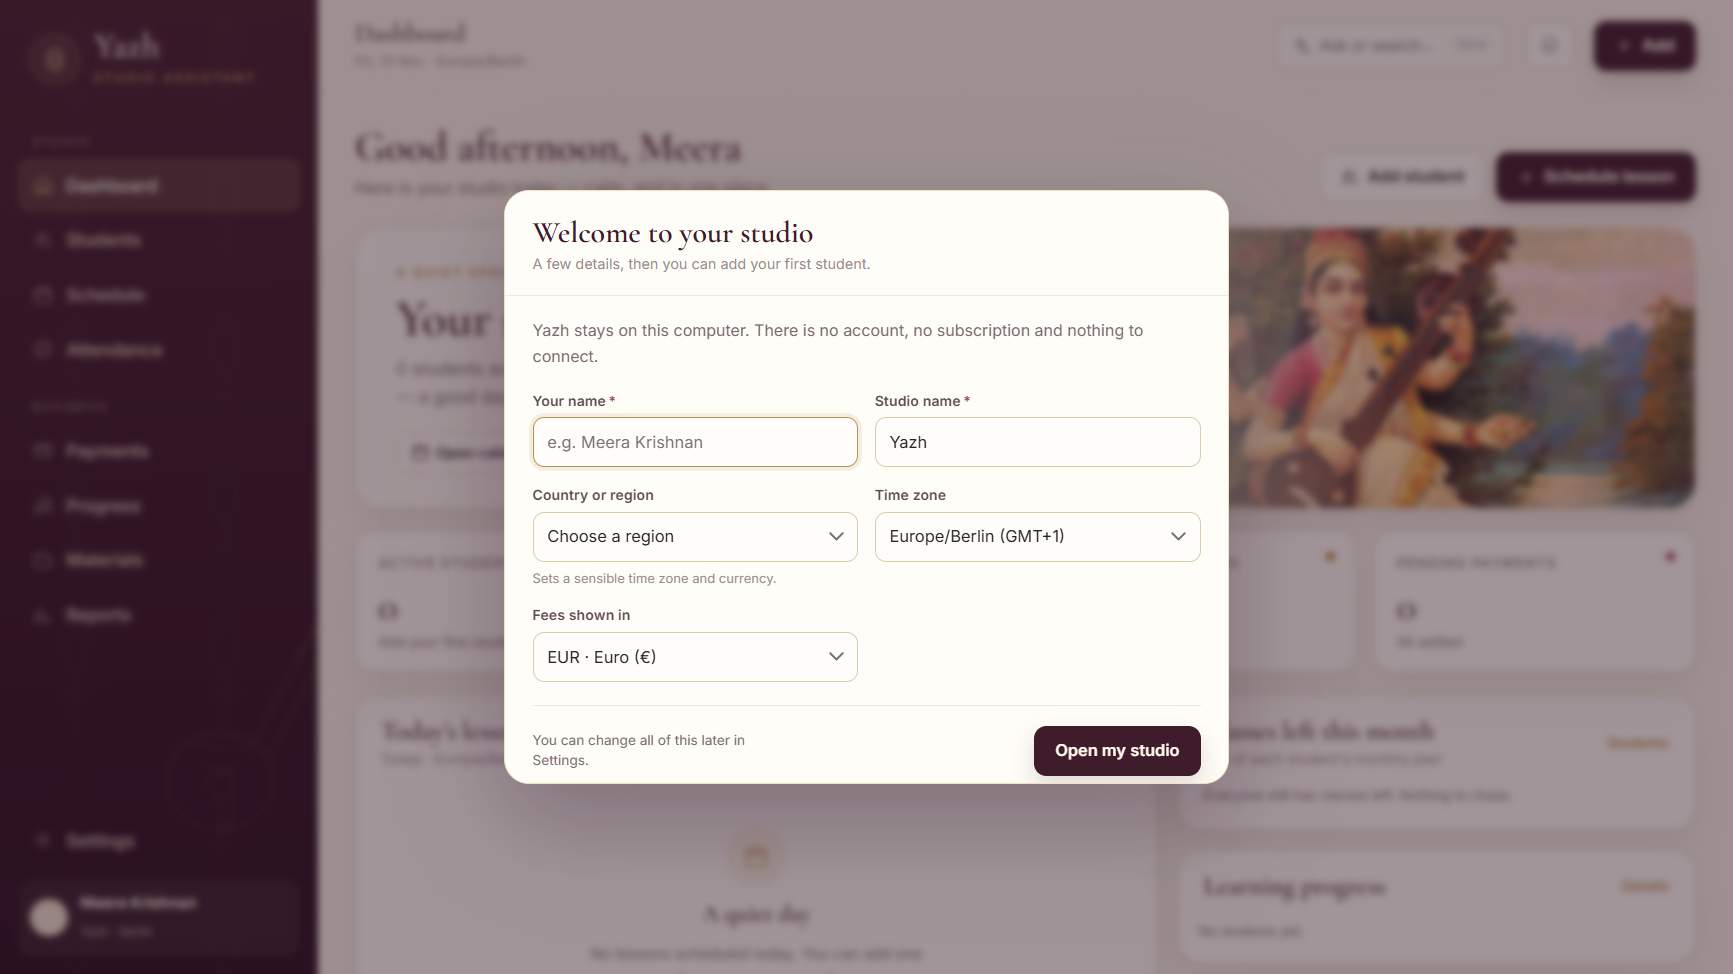
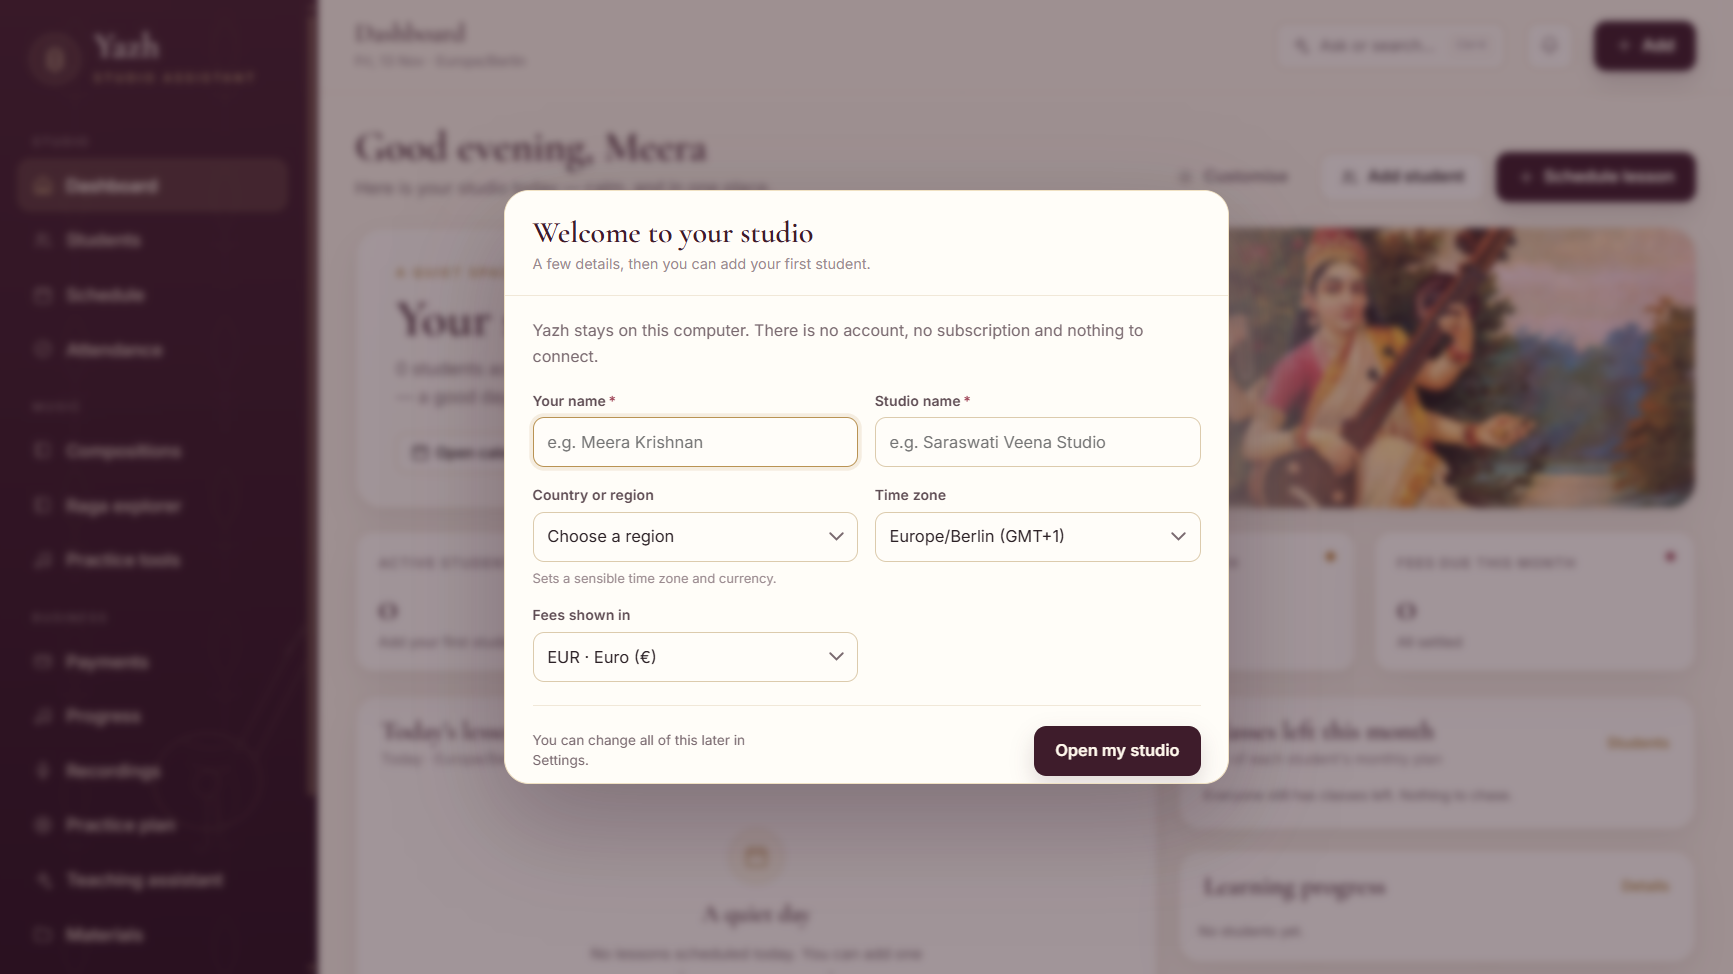
docs: first-run setup screenshot for 1.17

diff --git a/README.md b/README.md
@@ -12,7 +12,7 @@ subscription, no telemetry.
 
 | File | What it does |
 |---|---|
-| **`Yazh-1.16.0-portable.exe`** | Windows — available now |
+| **`Yazh-1.17.0-portable.exe`** | Windows — available now |
 | **macOS DMG** | Delayed — GitHub's macOS build runner is not being assigned; will be added later |
 | **`SHA256SUMS.txt`** | Checksums for verification |
 
@@ -92,6 +92,7 @@ shared. Data lasts until you delete it — see the privacy note in the app/docs.
 - **Teaching assistant** — optional offline, Ollama or Gemini help for plans, ragas, talas, exercises, quizzes and summaries.
 - **Settings depth** — update check, full backup bundle, themes, audio volume and notation density.
 - **Final gaps** — custom talas, composition audio/PDF uploads and guided swara playback.
+- **First-run gate** — asks for the teacher and studio details before opening the dashboard.
 - **Complete Carnatic path** — 11 stages, needs-revision status, printable
   per-student progress report.
 - **Settings** — region, time zone, currency, date/time format, week start,
@@ -130,7 +131,7 @@ shared. Data lasts until you delete it — see the privacy note in the app/docs.
 5. **+ Add → Record payment**; download the receipt.
 6. **Ctrl/Cmd + K** for a quick question.
 
-## Version 1.16.0
+## Version 1.17.0
 
 **Windows is available now. The macOS build is delayed** because GitHub's macOS
 build runners are not being assigned. The DMG will be added to the same release
@@ -152,7 +153,7 @@ Previous: **1.2.0** — no sign-in, Settings, Materials, Reports, Progress.
 ## Verify a download
 
 ```powershell
-Get-FileHash .\Yazh-1.16.0-portable.exe -Algorithm SHA256
+Get-FileHash .\Yazh-1.17.0-portable.exe -Algorithm SHA256
 ```
 
 Compare with `SHA256SUMS.txt`. GitHub's asset digest is the same hash.
